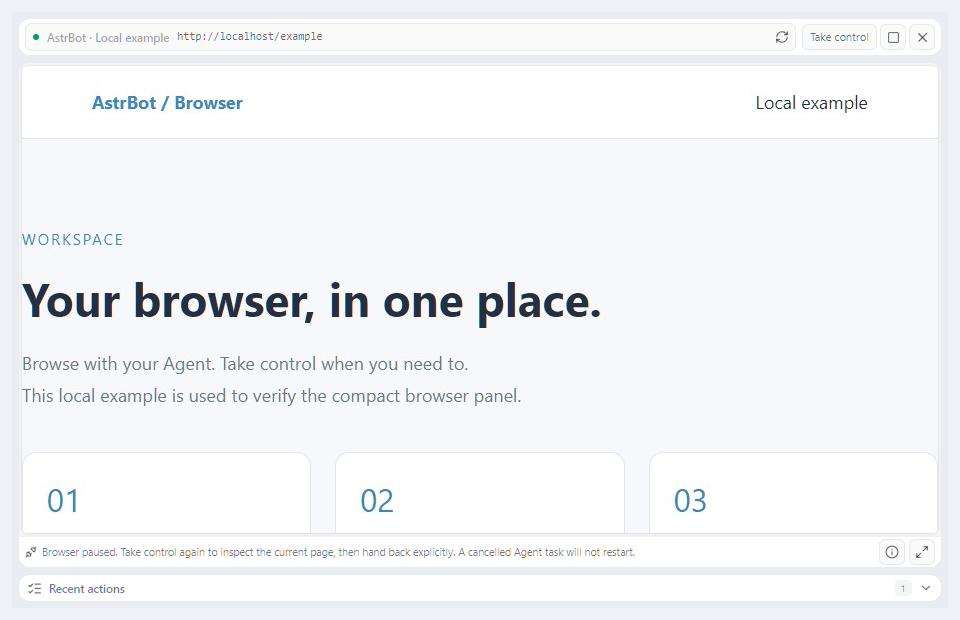
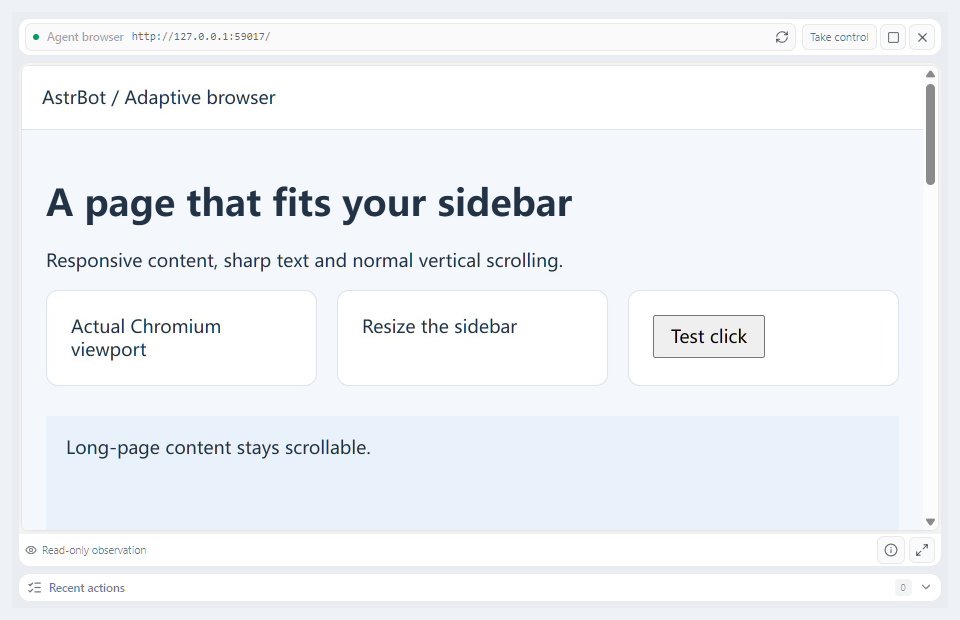
fix: keep agent browser viewport fitted to sidebar

diff --git a/dashboard/src/components/chat/AgentBrowserView.vue b/dashboard/src/components/chat/AgentBrowserView.vue
@@ -150,13 +150,15 @@ let inputQueue: Record<string, unknown>[] = [];
 let inputInFlight = false;
 const browserImage = ref<HTMLImageElement | null>(null);
 const browserDisplay = ref<HTMLElement | null>(null);
+const displaySize = ref({ width: 0, height: 0 });
 let resizeObserver: ResizeObserver | undefined;
 let resizeTimer: ReturnType<typeof setTimeout> | undefined;
 let lastViewportRequest = "";
+let lastViewportSequence = 0;
 let resizingViewport = false;
 
 /** Resize the owned browser after the panel settles, outside in-flight input. */
-async function resizeViewport() {
+async function resizeViewport(attempt = 0) {
   const current = state.value;
   const display = browserDisplay.value;
   if (
@@ -174,15 +176,7 @@ async function resizeViewport() {
       ["human", "acquiring"].includes(current.control_mode || ""))
   )
     return;
-  const style = getComputedStyle(display);
-  const width =
-    display.clientWidth -
-    parseFloat(style.paddingLeft || "0") -
-    parseFloat(style.paddingRight || "0");
-  const height =
-    display.clientHeight -
-    parseFloat(style.paddingTop || "0") -
-    parseFloat(style.paddingBottom || "0");
+  const { width, height } = displaySize.value;
   if (width <= 0 || height <= 0) return;
   const ratio = Math.min(1, 2560 / width, 1600 / height);
   const dimensions = {
@@ -196,26 +190,54 @@ async function resizeViewport() {
     browser_session_id: current.browser_session_id,
     tab_id: current.tab_id,
   };
-  const signature = JSON.stringify({ ...identity, ...dimensions });
-  if (signature === lastViewportRequest) return;
+  const signature = JSON.stringify({
+    ...identity,
+    document_id: current.document_id,
+    ...dimensions,
+  });
+  if (
+    signature === lastViewportRequest &&
+    ((current.sequence ?? 0) <= lastViewportSequence ||
+      current.viewport_width === undefined ||
+      current.viewport_height === undefined ||
+      (current.viewport_width === dimensions.width &&
+        current.viewport_height === dimensions.height))
+  )
+    return;
   if (humanControl.value) {
     if (!displayedFrame.value) return;
     lastViewportRequest = signature;
+    lastViewportSequence = current.sequence ?? 0;
     enqueueInput({ operation: "resize", ...dimensions });
     return;
   }
   resizingViewport = true;
+  let deferred = false;
+  let applied = false;
   try {
-    await pluginExtensionApi.post("browser-use/viewport", undefined, {
-      params: { ...identity, ...dimensions },
-    });
+    const response = await pluginExtensionApi.post(
+      "browser-use/viewport",
+      undefined,
+      {
+        params: { ...identity, ...dimensions },
+      },
+    );
     lastViewportRequest = signature;
-  } catch {
-    // Agent actions and another controller can defer a resize. Never replay input.
+    lastViewportSequence =
+      response.data.data?.sequence ?? current.sequence ?? 0;
+    applied = true;
+  } catch (error) {
+    // Action admission can still be settling after its completion event arrives.
+    deferred =
+      (error as { response?: { status?: number } })?.response?.status === 409 &&
+      attempt < 3;
   } finally {
     resizingViewport = false;
     // A second panel resize can occur while the first request is awaiting CDP.
-    if (lastViewportRequest === signature) {
+    if (deferred) {
+      clearTimeout(resizeTimer);
+      resizeTimer = setTimeout(() => void resizeViewport(attempt + 1), 700);
+    } else if (applied && lastViewportRequest === signature) {
       clearTimeout(resizeTimer);
       resizeTimer = setTimeout(resizeViewport, 350);
     }
@@ -223,8 +245,25 @@ async function resizeViewport() {
 }
 watch(browserDisplay, (display) => {
   resizeObserver?.disconnect();
+  displaySize.value = { width: 0, height: 0 };
   if (!display || typeof ResizeObserver === "undefined") return;
   resizeObserver = new ResizeObserver(() => {
+    const style = getComputedStyle(display);
+    // Fit existing pixels immediately; remote layout changes remain debounced.
+    displaySize.value = {
+      width: Math.max(
+        0,
+        display.clientWidth -
+          parseFloat(style.paddingLeft || "0") -
+          parseFloat(style.paddingRight || "0"),
+      ),
+      height: Math.max(
+        0,
+        display.clientHeight -
+          parseFloat(style.paddingTop || "0") -
+          parseFloat(style.paddingBottom || "0"),
+      ),
+    };
     clearTimeout(resizeTimer);
     resizeTimer = setTimeout(resizeViewport, 350);
   });
@@ -252,6 +291,15 @@ const visibleFrame = computed(() => {
   )
     return imageFrame.value;
   return null;
+});
+const fittedFrameSize = computed(() => {
+  const width = visibleFrame.value?.width || 1;
+  const height = visibleFrame.value?.height || 1;
+  const scale = Math.min(
+    displaySize.value.width / width,
+    displaySize.value.height / height,
+  );
+  return { width: `${width * scale}px`, height: `${height * scale}px` };
 });
 const inputCount = ref(0);
 const awaitingFrame = ref(false);
@@ -794,7 +842,14 @@ const online = ref(navigator.onLine !== false);
 watch(
   () => [
     props.chatId,
+    props.visible,
+    pageVisible.value,
+    state.value?.generation,
+    state.value?.browser_session_id,
     state.value?.tab_id,
+    state.value?.document_id,
+    state.value?.viewport_width,
+    state.value?.viewport_height,
     state.value?.viewport_resize_version,
     state.value?.control_mode,
     state.value?.current_action?.action_id,
@@ -1465,18 +1520,7 @@ onBeforeUnmount(() => {
           </p>
         </div>
         <div v-else ref="browserDisplay" class="agent-browser-image">
-          <div
-            class="agent-browser-viewport"
-            :style="
-              visibleFrame?.width && visibleFrame?.height
-                ? {
-                    width: `min(100%, calc(100cqh * ${
-                      visibleFrame.width / visibleFrame.height
-                    }))`,
-                  }
-                : undefined
-            "
-          >
+          <div class="agent-browser-viewport" :style="fittedFrameSize">
             <img
               ref="browserImage"
               :src="`data:${visibleFrame.mime_type};base64,${visibleFrame.image}`"
@@ -1705,7 +1749,7 @@ onBeforeUnmount(() => {
   min-width: 0;
   padding: 6px;
   container-type: inline-size;
-  overflow: auto;
+  overflow: hidden;
   background: rgba(var(--browser-ink), 0.025);
   color: rgb(var(--browser-ink));
 }
@@ -1878,7 +1922,8 @@ onBeforeUnmount(() => {
   display: flex;
   flex-direction: column;
   flex: 1 1 0;
-  min-height: 120px;
+  min-height: 0;
+  min-width: 0;
   overflow: hidden;
 }
 .agent-browser-stage.is-fullscreen {
@@ -1894,13 +1939,11 @@ onBeforeUnmount(() => {
   flex-direction: column;
   flex: 1;
   min-height: 0;
-  overflow: auto;
+  min-width: 0;
+  overflow: hidden;
   padding: 3px;
   background: rgba(var(--browser-ink), 0.035);
   overscroll-behavior: contain;
-}
-/* Fit the image to the remaining flex area, including all visible controls. */
-.agent-browser-image {
   container-type: size;
   align-items: center;
   justify-content: center;
@@ -1908,7 +1951,8 @@ onBeforeUnmount(() => {
 .agent-browser-image img {
   display: block;
   width: 100%;
-  height: auto;
+  height: 100%;
+  object-fit: contain;
   pointer-events: auto;
 }
 .agent-browser-takeover {
@@ -1921,6 +1965,8 @@ onBeforeUnmount(() => {
   position: relative;
   flex: 0 0 auto;
   width: 100%;
+  max-width: 100%;
+  max-height: 100%;
   margin-block: auto;
   overflow: hidden;
   border-radius: 6px;

diff --git a/dashboard/src/components/chat/AgentBrowserView.spec.ts b/dashboard/src/components/chat/AgentBrowserView.spec.ts
@@ -40,7 +40,7 @@ afterEach(() => {
 });
 
 describe("Agent browser snapshots", () => {
-  it("debounces the available panel size into an owned viewport request", async () => {
+  it("debounces viewport sizing and recovers when Chromium resets or defers it", async () => {
     vi.useFakeTimers();
     let resized: () => void = () => {};
     vi.stubGlobal(
@@ -94,11 +94,107 @@ describe("Agent browser snapshots", () => {
           },
         },
       ]);
+      for (const [sequence, width, height] of [
+        [2, 900, 600],
+        [3, 1280, 720],
+      ]) {
+        stream.enqueue(
+          new TextEncoder().encode(
+            `data: ${JSON.stringify({
+              ...current,
+              type: "state",
+              viewport_resize_version: 1,
+              viewport_width: width,
+              viewport_height: height,
+              sequence,
+            })}\n\n`,
+          ),
+        );
+        await flushPromises();
+        if (sequence === 2) {
+          await vi.advanceTimersByTimeAsync(350);
+          expect(post).toHaveBeenCalledTimes(1);
+        }
+      }
+      post.mockRejectedValueOnce({ response: { status: 409 } });
+      await vi.advanceTimersByTimeAsync(350);
+      expect(post).toHaveBeenCalledTimes(2);
+      await vi.advanceTimersByTimeAsync(700);
+      expect(post).toHaveBeenCalledTimes(3);
+      expect(post.mock.calls[2][2].params).toMatchObject({
+        width: 900,
+        height: 600,
+      });
       Object.defineProperty(display, "clientWidth", { value: 706 });
       resized();
       await view.setProps({ visible: false });
       await vi.advanceTimersByTimeAsync(1000);
-      expect(post).toHaveBeenCalledTimes(1);
+      expect(post).toHaveBeenCalledTimes(3);
+    } finally {
+      view.unmount();
+      vi.unstubAllGlobals();
+    }
+  });
+
+  it("fits high-resolution pixels immediately while an Agent action defers viewport resizing", async () => {
+    vi.useFakeTimers();
+    let resized: () => void = () => {};
+    vi.stubGlobal(
+      "ResizeObserver",
+      class {
+        constructor(callback: () => void) {
+          resized = callback;
+        }
+        observe() {}
+        disconnect() {}
+      },
+    );
+    get.mockResolvedValue(
+      ok({
+        ...current,
+        viewport_resize_version: 1,
+        current_action: {
+          action_id: "a1",
+          kind: "navigate",
+          status: "running",
+        },
+        sequence: 1,
+        image: "high-resolution-pixels",
+        mime_type: "image/jpeg",
+        width: 2560,
+        height: 1600,
+      }),
+    );
+    const view = mount(AgentBrowserView, {
+      props: { chatId: "chat-1", visible: true },
+      attachTo: document.body,
+    });
+    try {
+      await flushPromises();
+      const display = view.get(".agent-browser-image").element as HTMLElement;
+      const viewport = view.get(".agent-browser-viewport")
+        .element as HTMLElement;
+      const image = view.get("img").element;
+      display.style.padding = "3px";
+      Object.defineProperties(display, {
+        clientWidth: { value: 402, configurable: true },
+        clientHeight: { value: 206, configurable: true },
+      });
+      resized();
+      await view.vm.$nextTick();
+      expect(viewport.style.width).toBe("320px");
+      expect(viewport.style.height).toBe("200px");
+      Object.defineProperties(display, {
+        clientWidth: { value: 256 },
+        clientHeight: { value: 486 },
+      });
+      resized();
+      await view.vm.$nextTick();
+      expect(viewport.style.width).toBe("250px");
+      expect(viewport.style.height).toBe("156.25px");
+      expect(view.get("img").element).toBe(image);
+      await vi.advanceTimersByTimeAsync(1000);
+      expect(post).not.toHaveBeenCalled();
     } finally {
       view.unmount();
       vi.unstubAllGlobals();
@@ -953,16 +1049,14 @@ describe("Agent browser snapshots", () => {
   });
   it("keeps a healthy stream and its image without periodically fetching snapshots", async () => {
     vi.useFakeTimers();
-    get
-      .mockResolvedValueOnce(ok(current))
-      .mockResolvedValueOnce(
-        ok({
-          ...current,
-          sequence: 1,
-          image: "pixels",
-          mime_type: "image/jpeg",
-        }),
-      );
+    get.mockResolvedValueOnce(ok(current)).mockResolvedValueOnce(
+      ok({
+        ...current,
+        sequence: 1,
+        image: "pixels",
+        mime_type: "image/jpeg",
+      }),
+    );
     const view = mount(AgentBrowserView, {
       props: { chatId: "chat-1", visible: true },
     });

diff --git a/docs/en/use/webui.md b/docs/en/use/webui.md
@@ -571,7 +571,7 @@ The screenshot below uses a local example page and deterministic observation eve
 ![Single-row address bar, compact status row and collapsed actions](./images/agent-browser-compact.png)
 
 
-The remote viewport follows the sidebar or fullscreen content area after a 350 ms resize debounce; images retain their aspect ratio. Resizing waits for an active Agent action and does not interfere with another window's human control. Update AstrBot backend, Dashboard and Browser Use together; older plugins continue displaying their existing viewport proportionally. Snapshots use up to 2x sampling and JPEG quality 90, bounded to 2560×1600. Complex images exceeding the 2 MiB image budget receive lower JPEG quality; stream messages remain bounded to 3 MiB. Actual sharpness and frame rate depend on the page, device and connection.
+The remote viewport follows the sidebar or fullscreen content area after a 350 ms resize debounce; images retain their aspect ratio. Existing pixels fit the available area immediately as the sidebar changes size, and viewport resets after page operations are synchronized again. Long pages keep normal vertical scrolling: the view does not shrink the entire document into a thumbnail or hide the page's own scrollbars. Resizing waits for an active Agent action and does not interfere with another window's human control. Update AstrBot backend, Dashboard and Browser Use together; older plugins continue displaying their existing viewport proportionally. Snapshots use up to 2x sampling and JPEG quality 90, bounded to 2560×1600. Complex images exceeding the 2 MiB image budget receive lower JPEG quality; stream messages remain bounded to 3 MiB. Actual sharpness and frame rate depend on the page, device and connection.
 
 A manual input made stale by scrolling, navigation or layout changes is reported as not executed. That input and the unsent queue are discarded while ownership remains active, waiting for fresh pixels. Retry explicitly; input is never replayed automatically. Lease heartbeats no longer depend on a page execution context surviving navigation. Actual network loss, logout, revoked access and uncertain execution still stop input and pause the browser.
 

diff --git a/docs/zh/use/webui.md b/docs/zh/use/webui.md
@@ -531,7 +531,7 @@ Windows 离线部署需同时携带 Browser Use `0.3.0` 完整插件包、包含
 ![单行地址栏、紧凑状态栏和收起的动作列表](./images/agent-browser-compact.png)
 
 
-画面会按侧栏或全屏的实际可用宽高调整远程网页视口，拖动结束约 350 毫秒后同步；不会拉伸图片。Agent 动作进行中会延后调整，另一窗口持有人工控制权时只观看。需要同时更新 AstrBot 后端、Dashboard 和 Browser Use 插件；旧插件继续等比显示原画面。快照使用最多 2 倍采样、JPEG 质量 90，最大 2560×1600；复杂页面超过 2 MiB 图片预算时降低压缩质量，流消息仍有 3 MiB 上限。实际清晰度和帧率受页面、设备和连接影响。
+画面会按侧栏或全屏的实际可用宽高调整远程网页视口，拖动结束约 350 毫秒后同步；不会拉伸图片。缩放侧栏时，现有截图立即等比适配可用区域；页面操作重置视口后，会重新同步到侧栏尺寸。长网页保留正常纵向滚动，不会把整页压缩成一张缩略图，也不会隐藏网页自身的滚动条。Agent 动作进行中会延后调整，另一窗口持有人工控制权时只观看。需要同时更新 AstrBot 后端、Dashboard 和 Browser Use 插件；旧插件继续等比显示原画面。快照使用最多 2 倍采样、JPEG 质量 90，最大 2560×1600；复杂页面超过 2 MiB 图片预算时降低压缩质量，流消息仍有 3 MiB 上限。实际清晰度和帧率受页面、设备和连接影响。
 
 手动输入如果因滚动、导航或布局变化而过期，会显示“本次操作未执行”，丢弃该操作及未发送队列，保留接管并等待新画面；请自行重试，不会自动重放。控制心跳不依赖网页执行上下文，导航中的临时上下文销毁不会使心跳失败。真正的网络断开、退出登录、权限撤销和不确定的执行结果仍会停止输入并暂停浏览器。
 
